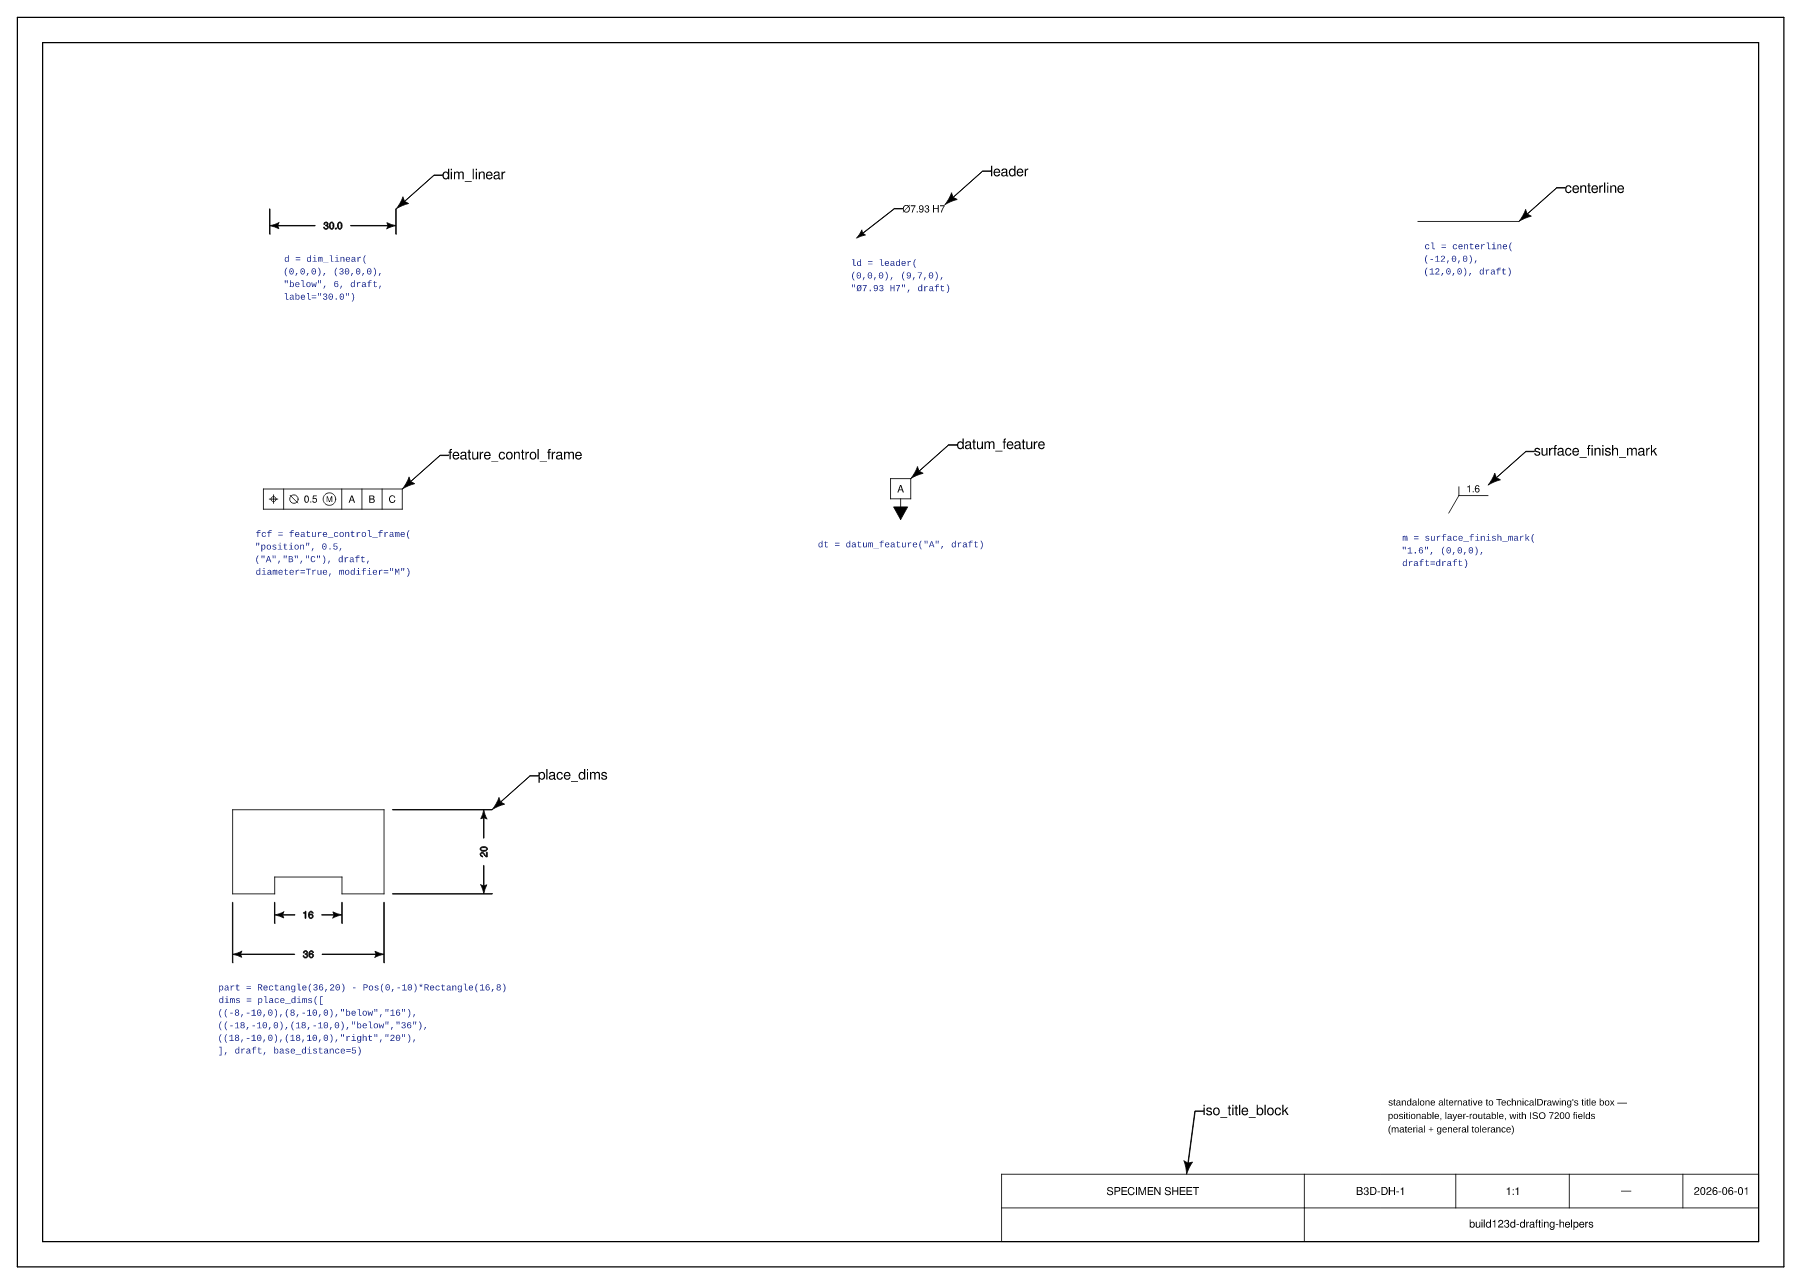
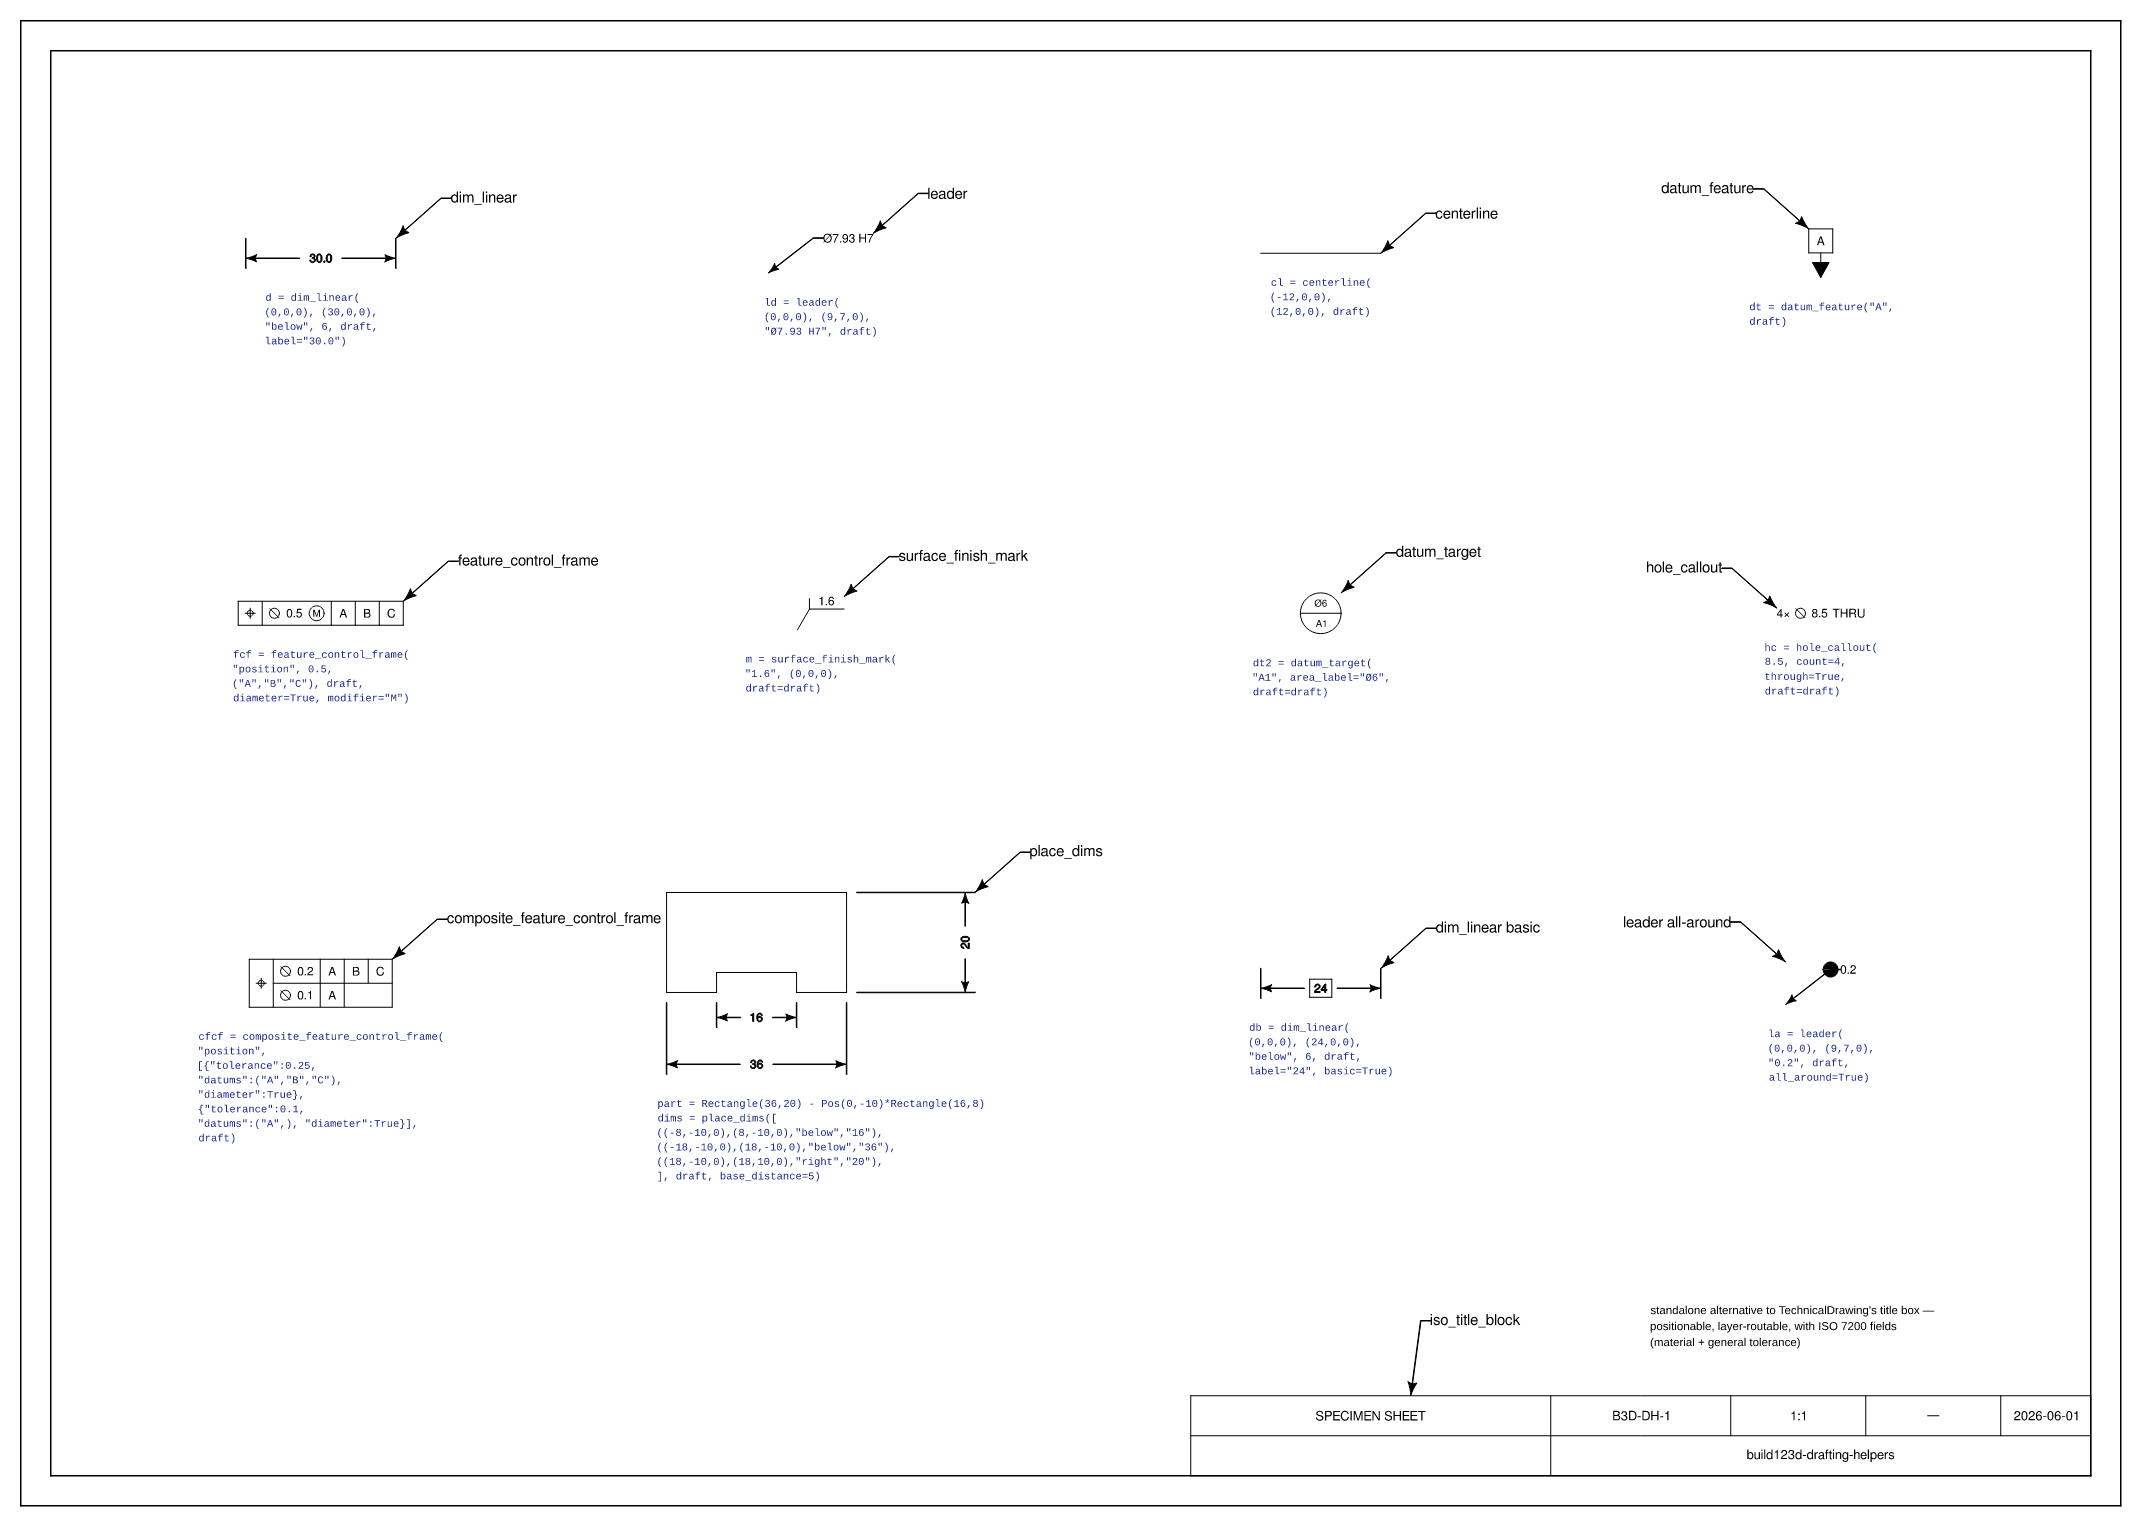
docs: catalogue all 12 helpers in the specimen sheet
Adds the five new GD&T specimens (datum_target,
composite_feature_control_frame, hole_callout, dim_linear(basic=True),
leader(all_around=True)) to examples/specimen_sheet.py.

Re-laid as a 4-column x 3-row grid on the same A3 sheet; the rightmost
column's name leaders point left so labels stay inside the frame. The
sheet still lints clean (find_interferences, 0 errors). Regenerated
docs/specimen_sheet.png (the README hero image).

diff --git a/examples/specimen_sheet.py b/examples/specimen_sheet.py
@@ -24,26 +24,39 @@ from build123d_drafting import (
 
 MONO, SANS = "Liberation Mono", "Liberation Sans"
 SYM_DRAFT = draft_preset(font_size=2.4, decimal_precision=1)
-LBL_DRAFT = draft_preset(font_size=3.4, decimal_precision=1)
-CODE_FS, LINE_DY, BLUE = 2.2, 3.0, Color(0.10, 0.16, 0.55)
+LBL_DRAFT = draft_preset(font_size=3.0, decimal_precision=1)
+CODE_FS, LINE_DY, BLUE = 2.1, 2.9, Color(0.10, 0.16, 0.55)
 
 # A3 landscape, 420 x 297, centred on the origin.
 PW, PH, MARGIN = 420.0, 297.0, 6.0
 
+# 4-column × 3-row grid (12 slots). Columns at x = -150 / -50 / 50 / 150; rows at
+# y = 102 / 30 / -44. The rightmost column's name labels point *left* so they stay
+# inside the frame. place_dims fills the col2/row3 slot; the rest are SPECS below.
 # (name, snippet, var, routing-kind, (cell_x, cell_y))
 SPECS = [
     ("dim_linear",
-     'd = dim_linear(\n    (0,0,0), (30,0,0),\n    "below", 6, draft,\n    label="30.0")', "d", "shape_ink", (-135, 100)),
+     'd = dim_linear(\n    (0,0,0), (30,0,0),\n    "below", 6, draft,\n    label="30.0")', "d", "shape_ink", (-150, 102)),
     ("leader",
-     'ld = leader(\n    (0,0,0), (9,7,0),\n    "Ø7.93 H7", draft)', "ld", "lines_ink", (0, 100)),
+     'ld = leader(\n    (0,0,0), (9,7,0),\n    "Ø7.93 H7", draft)', "ld", "lines_ink", (-50, 102)),
     ("centerline",
-     'cl = centerline(\n    (-12,0,0),\n    (12,0,0), draft)', "cl", "shape_line", (135, 100)),
-    ("feature_control_frame",
-     'fcf = feature_control_frame(\n    "position", 0.5,\n    ("A","B","C"), draft,\n    diameter=True, modifier="M")', "fcf", "lines_str", (-135, 34)),
+     'cl = centerline(\n    (-12,0,0),\n    (12,0,0), draft)', "cl", "shape_line", (50, 102)),
     ("datum_feature",
-     'dt = datum_feature("A", draft)', "dt", "lines_ink", (0, 34)),
+     'dt = datum_feature("A",\n    draft)', "dt", "lines_ink", (150, 102)),
+    ("feature_control_frame",
+     'fcf = feature_control_frame(\n    "position", 0.5,\n    ("A","B","C"), draft,\n    diameter=True, modifier="M")', "fcf", "lines_str", (-150, 30)),
     ("surface_finish_mark",
-     'm = surface_finish_mark(\n    "1.6", (0,0,0),\n    draft=draft)', "m", "lines_str", (135, 34)),
+     'm = surface_finish_mark(\n    "1.6", (0,0,0),\n    draft=draft)', "m", "lines_str", (-50, 30)),
+    ("datum_target",
+     'dt2 = datum_target(\n    "A1", area_label="Ø6",\n    draft=draft)', "dt2", "lines_str", (50, 30)),
+    ("hole_callout",
+     'hc = hole_callout(\n    8.5, count=4,\n    through=True,\n    draft=draft)', "hc", "lines_str", (150, 30)),
+    ("composite_feature_control_frame",
+     'cfcf = composite_feature_control_frame(\n    "position",\n    [{"tolerance":0.25,\n      "datums":("A","B","C"),\n      "diameter":True},\n     {"tolerance":0.1,\n      "datums":("A",), "diameter":True}],\n    draft)', "cfcf", "lines_str", (-150, -44)),
+    ("dim_linear basic",
+     'db = dim_linear(\n    (0,0,0), (24,0,0),\n    "below", 6, draft,\n    label="24", basic=True)', "db", "shape_ink", (50, -44)),
+    ("leader all-around",
+     'la = leader(\n    (0,0,0), (9,7,0),\n    "0.2", draft,\n    all_around=True)', "la", "lines_ink", (150, -44)),
 ]
 
 PRE = ("from build123d import *\nfrom build123d_drafting import *\n"
@@ -93,9 +106,16 @@ def place_code(snippet, cx, top_y):
     _text_box_item(placed, "code")
 
 
-def label_with_leader(bb, name):
-    """Dogfood leader(): point at the specimen and label it with the helper name."""
-    lab = leader((bb.max.X, bb.max.Y, 0), (bb.max.X + 9, bb.max.Y + 8, 0), name, LBL_DRAFT)
+def label_with_leader(bb, name, left=False):
+    """Dogfood leader(): point at the specimen and label it with the helper name.
+
+    For the rightmost column pass ``left=True`` so the label hangs to the left of
+    the cell and stays inside the sheet frame.
+    """
+    if left:
+        lab = leader((bb.min.X, bb.max.Y, 0), (bb.min.X - 9, bb.max.Y + 8, 0), name, LBL_DRAFT)
+    else:
+        lab = leader((bb.max.X, bb.max.Y, 0), (bb.max.X + 9, bb.max.Y + 8, 0), name, LBL_DRAFT)
     ink.append(lab.lines)   # arrow + shelf are faces
     fill.append(lab.text)
     lint_items.append(lab)
@@ -109,7 +129,7 @@ def add_cell(name, snippet, var, kind, cx, cy):
     for s, b in pieces:
         BUCKET[b].append(s.moved(Location((tx, ty, 0))))
     bb = spec.moved(Location((tx, ty, 0))).bounding_box()
-    label_with_leader(bb, name)
+    label_with_leader(bb, name, left=cx > 90)   # rightmost column labels point left
     place_code(snippet, cx, bb.min.Y - 5)
 
 
@@ -160,7 +180,7 @@ _text_box_item(note, "title-block note")
 for name, snippet, var, kind, (cx, cy) in SPECS:
     add_cell(name, snippet, var, kind, cx, cy)
 
-# --- place_dims composite, lower-left (clear of the title block) ---
+# --- place_dims composite, grid col2 / row3 ---
 pd = ("part = Rectangle(36,20) - Pos(0,-10)*Rectangle(16,8)\n"
       "dims = place_dims([\n"
       '    ((-8,-10,0),(8,-10,0),"below","16"),\n'
@@ -173,12 +193,12 @@ outline = Compound(children=list(ns["part"].edges()))
 dims = Compound(children=[d.shape for d in ns["dims"]])
 whole = Compound(children=[outline, dims])
 ctr = whole.bounding_box().center()
-loc = Location((-128 - ctr.X, -58 - ctr.Y, 0))
+loc = Location((-50 - ctr.X, -44 - ctr.Y, 0))
 stroke.append(outline.moved(loc))
 ink.append(dims.moved(loc))
 bb = whole.moved(loc).bounding_box()
 label_with_leader(bb, "place_dims")
-place_code(pd, -128, bb.min.Y - 5)
+place_code(pd, -50, bb.min.Y - 5)
 
 
 def lint():

diff --git a/CHANGELOG.md b/CHANGELOG.md
@@ -31,6 +31,15 @@
   are meant to point *into* geometry). `examples/part_drawing.py` now uses it instead of a
   hand-rolled loop.
 
+### Examples
+
+- **Specimen sheet** now catalogues all twelve helpers (added `datum_target`,
+  `composite_feature_control_frame`, `hole_callout`, `dim_linear(basic=True)` and
+  `leader(all_around=True)`). Re-laid as a 4-column × 3-row grid on the same A3 sheet — the
+  rightmost column's name leaders point left so labels stay inside the frame — and it still
+  lints clean (`find_interferences`, 0 errors). `docs/specimen_sheet.png` (the README hero)
+  regenerated.
+
 ### Bug fixes
 
 - **`dim_linear` label_bbox wrong for vertical dims**: for a left/right (vertical) dim the
